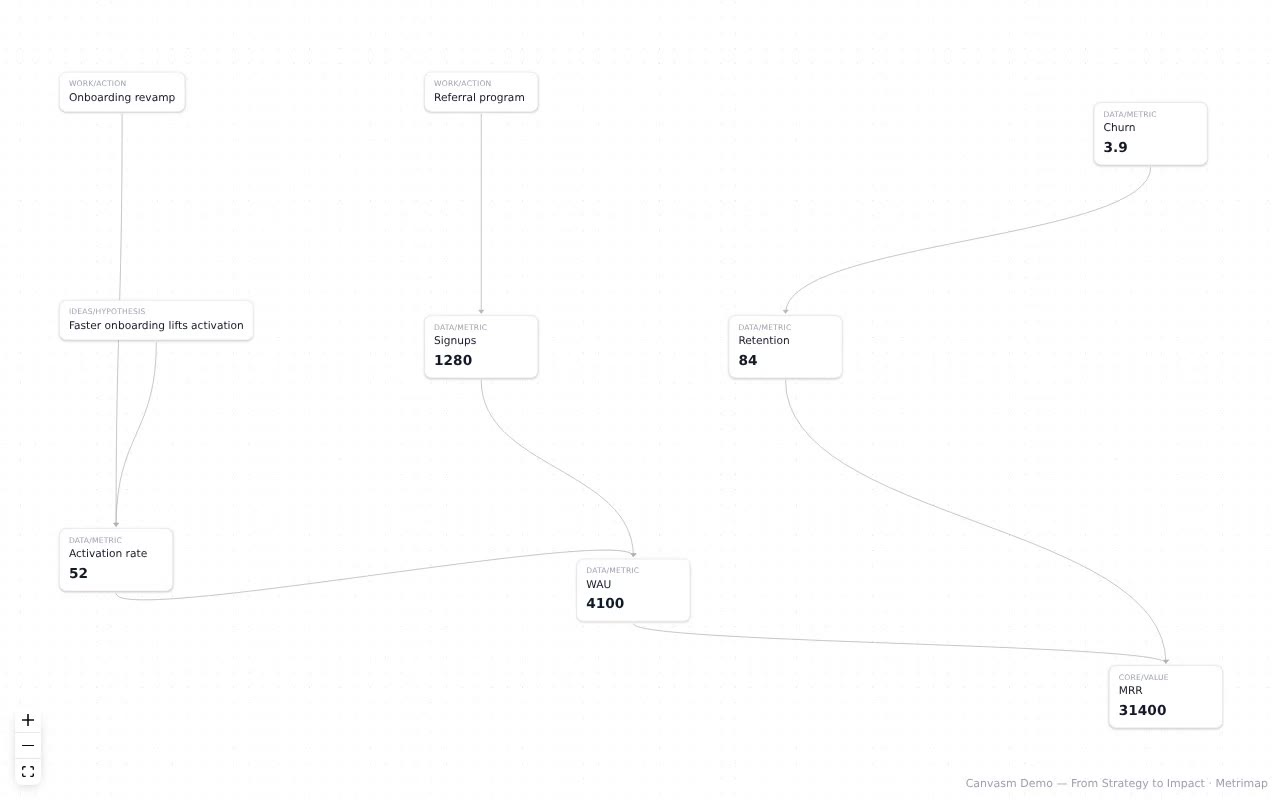
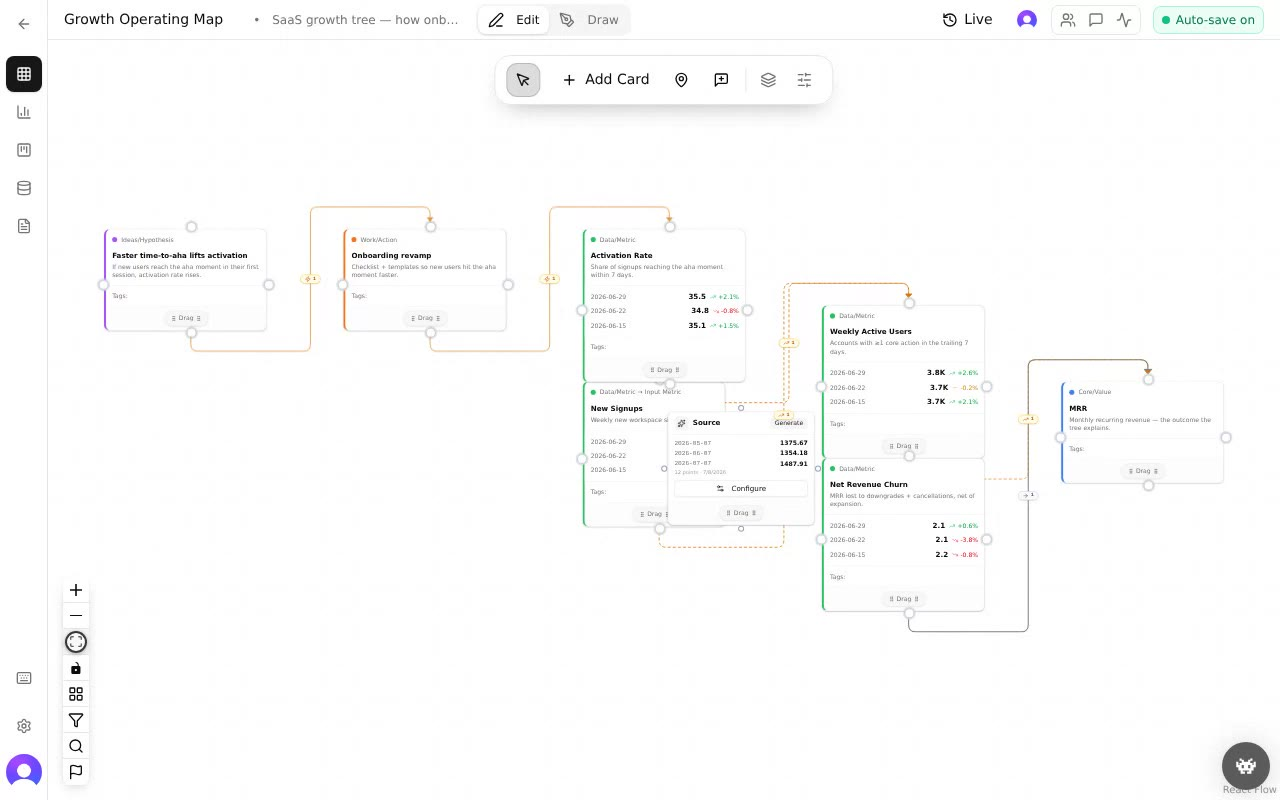
Wire all six operating-loop recordings (real app) into the explorer
The app agent delivered authenticated real-app recordings for the five loops
that need signed-in surfaces, and replaced strategy-to-impact in place with a
real-app version. Add all six LOOP_MEDIA entries so every loop tab plays the
actual product:

- teams-to-dashboards, experimentation-to-knowledge, instrumentation-to-trust,
  agent-to-operating-map, workflow-orchestration (new mp4+jpg pairs)
- strategy-to-impact (replaced media + caption updated to the real-app style)

Captions rewritten to "Recorded live in the app: …" (these are the seeded
Growth Operating Map, not the public embed).

Verified: each tab maps to its own video, all 12 media assets serve 200,
check + build green. ~3.2MB total across six ~200-450KB looping clips.

diff --git a/src/components/product-system/flows.ts b/src/components/product-system/flows.ts
@@ -185,6 +185,36 @@ export const LOOP_MEDIA: Record<
     src: "/loops/strategy-to-impact.mp4",
     poster: "/loops/strategy-to-impact.jpg",
     caption:
-      "The real app, recorded live: following the trace from the onboarding bet to activation, WAU, and MRR on the public demo canvas.",
+      "Recorded live in the app: tracing the operating map from the onboarding bet down to activation, weekly active users, and MRR.",
+  },
+  "teams-to-dashboards": {
+    src: "/loops/teams-to-dashboards.mp4",
+    poster: "/loops/teams-to-dashboards.jpg",
+    caption:
+      "Recorded live in the app: the same map grouped by team, surfaced as the dashboard widgets a review runs on.",
+  },
+  "experimentation-to-knowledge": {
+    src: "/loops/experimentation-to-knowledge.mp4",
+    poster: "/loops/experimentation-to-knowledge.jpg",
+    caption:
+      "Recorded live in the app: a hypothesis becomes an action on the strategy board, moves a metric, and captures the evidence.",
+  },
+  "instrumentation-to-trust": {
+    src: "/loops/instrumentation-to-trust.mp4",
+    poster: "/loops/instrumentation-to-trust.jpg",
+    caption:
+      "Recorded live in the app: a metric's source and definition, its quality checks, and the trusted dashboard they feed.",
+  },
+  "agent-to-operating-map": {
+    src: "/loops/agent-to-operating-map.mp4",
+    poster: "/loops/agent-to-operating-map.jpg",
+    caption:
+      "Recorded live in the app: creating and connecting nodes on the operating map — the same primitives an agent drives through MCP.",
+  },
+  "workflow-orchestration": {
+    src: "/loops/workflow-orchestration.mp4",
+    poster: "/loops/workflow-orchestration.jpg",
+    caption:
+      "Recorded live in the app: the operating cadence — owners, a metric review, and the decision that spawns the next work item.",
   },
 };